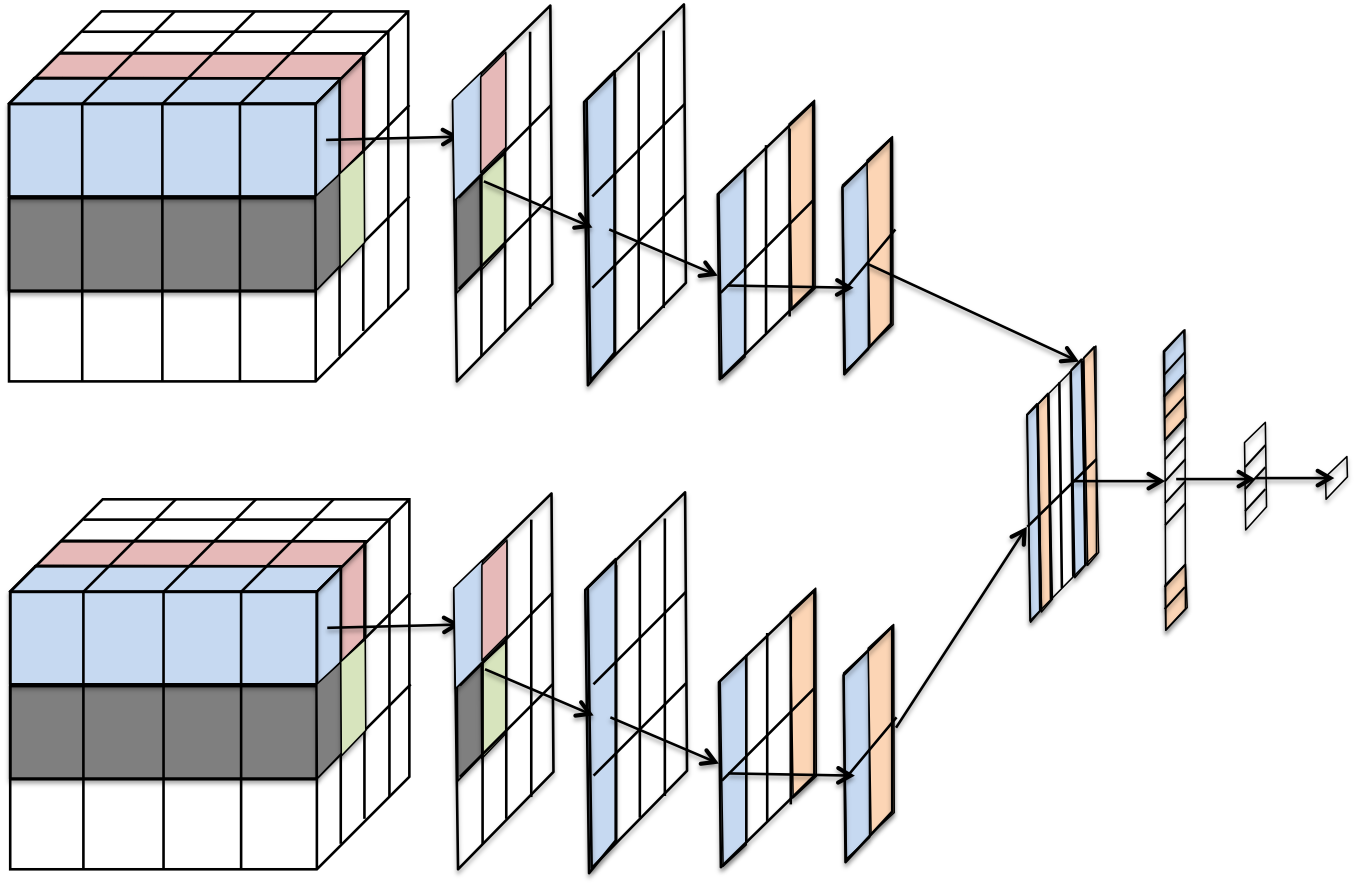
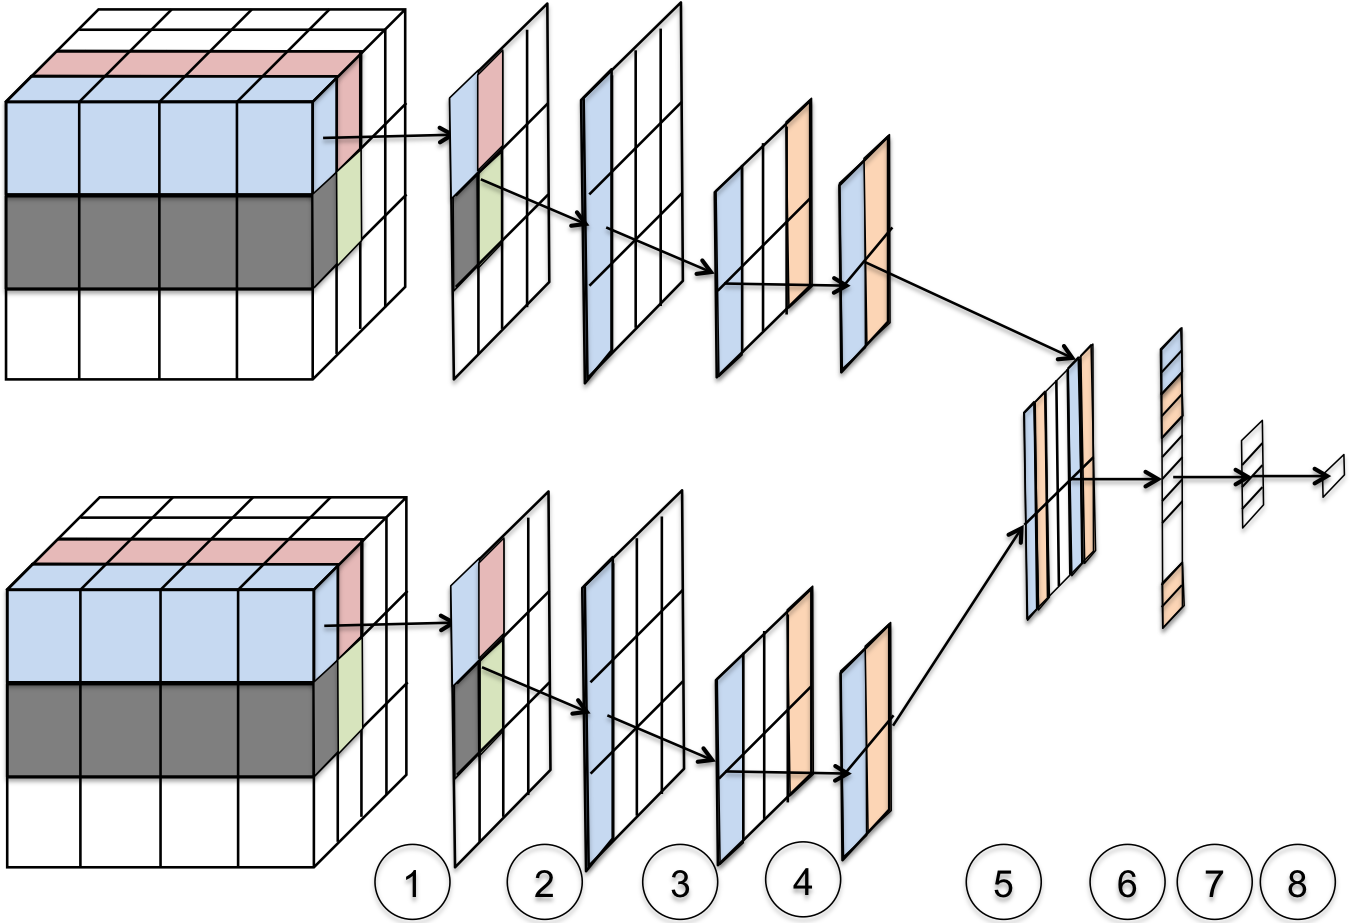
revising the text in introduction

diff --git a/Lineage.tex b/Lineage.tex
@@ -65,6 +65,14 @@
 \newcommand{\note}[1]{}
 \fi
 
+\newenvironment{shortlist}{
+        \vspace*{-0.5em}
+  \begin{itemize}
+  \setlength{\itemsep}{-0.1em}
+}{
+  \end{itemize}
+        \vspace*{-0.5em}
+}
 
 \begin{document}
 
@@ -92,14 +100,14 @@
 \maketitle
 
 \begin{abstract}
-Distributed machine learning (ML) systems are increasingly popular as practitioners and researchers 
+Distributed machine learning (ML) frameworkss are increasingly popular as practitioners and researchers 
 can quickly build productive applications (ML pipelines) and execute them at scale. 
 However, debugging such a pipeline is often cumbersome due to the lack of system support for
 intermediate states recording and user interaction.
 In this paper, we explore the debuggability issue of distributed ML systems by leveraging the fine-grained 
 data lineage throughout ML pipelines. 
 Specifically, we formulate the fine-grained data lineage as mappings between multi-dimensional spaces,
-identify a suite of primitive lineage types based on its dataflow and cross-space mapping patterns, 
+identify a suite of primitive lineage types based on its mapping patterns, 
 and investigate several recording and indexing strategies to reduce the storage consumption and improve the query performance.
 
 We present the Gineala lineage system as part of the KeystoneML, which is a distributed machine learning
@@ -119,7 +127,7 @@ use case.
 %\keywords{ACM proceedings, \LaTeX, text tagging}
 
 \section{Introduction}
-Machine learning systems are increasingly popular as practitioners and researchers can quickly
+Machine learning frameworks are increasingly popular as practitioners and researchers can quickly
 build productive applications (referred as ML pipelines in the rest of this paper) with a high-level 
 programming language to pipeline the data preparation, feature extraction, model training, 
 and prediction. 
@@ -130,26 +138,26 @@ SystemML~\cite{ghoting11systemml}, and KeystoneML~\cite{sparks15} focus on a dis
 Debugging such a ML pipeline with datasets in a distributed environment can be problematic due to
 the lack of system support of memory states capturing and user interaction.
 To motivate, we present three typical use cases for ML pipeline debugging:
-\begin{itemize}
+\begin{shortlist}
 \item{\bf Data Debugging}: In a hand-written digit classification pipeline, a user wants to remove one
-corrupted training data point and retrain the model.
+corrupted training data item and retrain the model.
 \item{\bf Code Debugging}: In an image classification pipeline, a user wants to verify the correctness of 
 the positional information of features. 
 \item{\bf Results Debugging}: In an astroid extraction pipeline, an astronomer wants to find astroids whose
 brightness are above a threshold then locate them in the input images.
-\end{itemize}
+\end{shortlist}
 
 In practice, users instrument the steps of interest to gather memory states and store them in a persistent storage
 for later examination. Users may try multiple solutions until the memory states have sufficient information for the
-use cases. These solutions are often use case specific, performance degradation prone, and can introduce high code
-complexity due to the demand for multiple versions of an ML pipeline.
+use cases. These solutions are often use case specific, performance degradation prone, and can complicate code
+management due to the demand for multiple versions of a pipeline.
 
 On the other hand, fine-grained data lineage at data structure cell-level (e.g. elements of a matrix) -- the mapping between
 input elements to output elements and according computation -- can provide useful information for the
 debugging purpose~\cite{widom04}. The user of the {\bf Data Debugging} case can trace the propagation of the corrupted training
-data point from the beginning step forward until the step before model training to figure out the affected features.
+data item from the beginning step forward until the step before model training to figure out the affected features.
 Then the user traces the affected features backward and confirms these affected features only depend on the corrupted
-data point. At this point, the users can remove the affected features directly from the input of the model training step, 
+data item. At this point, the users can remove the affected features directly from the input of the model training step, 
 and rerun the training process with the cleaned dataset. The user of the {\bf Code Debugging} case can trace the lineage
 information of the feature extraction step backward to figure out the correlated input pixels in the image. Visualizing
 these pixels can help the user confirm the correctness of feature extraction immediately. The astronomer of the {\bf Results Debugging}
@@ -157,88 +165,87 @@ case can first filter the results and find these astroids that are above the bri
 backward to find out the input pixels. With further mathematical analysis or visualization, the astronomer can tell
 if it is a new astroid or an false detection introduced by cosmic ray. 
 
-In this paper, we explore the debuggability of distributed machine learning systems by leveraging the fine-grained data lineage.
-We formulate the data transformation in the ML pipeline as a multi-dimensional space transformation. 
-As shown in Figure~\ref{fig:conceptual}, the mapping of an ML pipeline can be viewed as a sequence of multi-dimentional space transformations. 
+
+We seek to enable the debuggability of distributed machine learning frameworks by leveraging the fine-grained data lineage.
+However, building such a lineage system is challenging because: 
+the interface of the lineage system needs to be concise;
+capturing fine-grained data lineage introduces performance penalty;
+lineage querying needs to be responsive.
+
+For a concise lineage system interface, we identify seven primitive lineage types by formulating the cell-level mapping 
+of an ML pipeline as a sequence of multi-dimensional space transformation, as shown in Figure~\ref{fig:conceptual}.
 Higher-dimensional space can collapse/expand to lower-dimentional space along one dimension at a time, 
-resulting in collapse mapping and expansion mapping. 
-The mapping between spaces with the same dimensions can be one-to-one mapping, all-to-one mapping, 
-region mapping, sample mapping, and linear-combination mapping.
-Thus, we define seven lineage primitive types based on the cell-level mapping. 
+resulting in collapse mapping(\textcircled{1}) and expansion mapping(\textcircled{5}, \textcircled{6}). 
+The mapping between spaces with the same number of dimensions can be identity mapping, all mapping(\textcircled{8}), 
+geometry mapping(\textcircled{2}, \textcircled{4}), and linear-combination mapping(\textcircled{3}, \textcircled{7}).
+A formal definition of the mapping types is in \S\ref{sec:Lin}.
 Users can declare the according lineage type for individual data transformations.
-Specifically for region mapping, we introduce an high-order function approach to describe the geometry for
-less storage consumption and investigate various indexing strategies of the geometry mapping for higher query performance.
-
-%We present the Gineala lineage system, which is built upon the KeystoneML distributed machine learning system. 
-
-%Recording fine grained lineage information for modern distributed computing frameworks can help
-%users and practitioners understand the data analysis results, find data anomalies from massive
-%datasets, and replay the computation with cleaned data. 
-%Users can look into the lineage for a highly rated movie to understand the nature of the supporting
-%group. They can also investigate how an erroneous data item propagates in the analysis and replay
-%the computation by removing the polluted data at a stage that incurs the least re-execution cost.
-%In general, a lineage system needs to be able to collect the fine grained lineage, 
-%provide forward and backward query along the computation stages, and replay partial computation
-%that are of users' interest.
-
-%Building such a lineage system is particularly challenging because: 
-%1) lineage collection can slowdown the analysis dramatically;
-%2) lineage data can be hard to capture due to intermediate data's lack of structure;
-%3) lineage data can exceed the disk storage space; 
-%4) interaction between users and the lineage system needs to be responsive.
-
-%Specifically for a distributed machine learning system, some challenges can exacerbate: 
-%The slowdown introduced by recording lineage to disks can be significant as the computing engine 
-%may run applications completely in memory without writing/reading intermediate data to/from disks. 
-%The dataset processed by a distributed machine learning system is usually larger that runs on a desktop.
-%On the other hand, dedicated distributed machine learning systems have the intermediate data between
-%stages well structured as vectors, matrices, and images (2D images with channels). 
-%This allows us to separate the metadata of the coordination system in each data structure from the actual data. 
-%Recording the mapping between metadata and storing them consumes less storage space than that of actual data.
-%Building index for the metadata mapping can reduce the query response time while paying the cost of time.
 
 \begin{figure}[h]
 \begin{center}
     \includegraphics[width=85mm]{pictures/Conceptual}
-    \caption {A synthetic image processing pipeline with elements mapping highlighted in color scheme.
+    \caption {A synthetic image classfication pipeline with elements mapping highlighted in color scheme. 
+    \textcircled{1}: converts multi-channel image to gray scale.
+    \textcircled{2}: SIFT Feature extraction.
+    \textcircled{3}: PCA reduces vector demension.
+    \textcircled{4}: Vector sampling.
+    \textcircled{5}: Vector combining.
+    \textcircled{6}: Matrix vectorizing.
+    \textcircled{7}: Lineage model prediction.
+    \textcircled{8}: Selection of the index with maximum value.
     \label{fig:conceptual}
 }
 \end{center}
 \end{figure}
 
-%In this paper, we investigate the above tradeoffs in the context of the KeystoneML machine learning pipeline that is built on
-%top of Apache Spark~\cite{zaharia12}. In particular, we study 1) various data storage options given a space or a query latency constraint, 
-%2) a set of indexing algorithms with different memory consumption, disk space, building overhead, and query latency.
-%Based on these studies, we present the Gineala lineage system as a module of KeytoneML. 
-%Gineala abstracts lineage as input dataset, output dataset, metadata mapping, computation, and random factor. 
-%Gineala lets users declare lineage in five pre-defined categories: {\bf One}, {\bf All}, {\bf Region}, {\bf LinCom} (Lineage Combination), and {\bf Gather}.
-%It separates the metadata (coordination system of the data structure) from the actual data, and records the metadata mapping. 
-%It incorporates metadata type checking for inter-stage lineage query and builds index for {\bf Region} lineage for responsive query.
-%Gineala stores lineage information in HDFS~\cite{shvachko10} as Apache Spark's resilient distributed dataset(RDD). 
-%It can load the lineage information into KeystoneML in-memory, modify or remove data item from the input dataset, and replay
-%the computation interactively.
+The performance penalty introduced by lineage capturing comes mostly from persisting in-memory data to storage.
+In the context of data transformation, there are three potential datasets: the input, the output, and mapping between them.
+Recording only the metadata (coordinates) mapping rather than the actual data value places a lower bound of the amount
+of data the lineage system needs to capture. The actual dataset can be derived by rerunning the pipeline.
+Among the mapping types, geometry mapping takes more storage space than others due to the arbitrary between two collections
+of metadata. We introduce an high-order function approach to describe each geometry and record the mapping between
+each pair of geometries to reduce the storage consumption. We also investigate various indexing strategies for better
+query performance for geometry mapping.
 
-%The contributions of this paper are: 
-%1) the use of higher-order function to describe {\bf Region} lineage;
-%2) the indexing algorithm that speeds up the query by 45x-168x;
-%3) the open source implementation of the Gineala system.
+We present the Gineala, a lineage collecting and serving system that implements the above general solutions.
+Ginealal is integrated with the KeystoneML~\cite{sparks15} distributed machine learning framework.
+KeystoneML exposes two building blocks: transformers and estimators. 
+A transformer applies a deterministic unary function to data items and produce new data items.
+An estimator takes a collection of data items, and feed them to a training procedure,  and produces a transformer.
+Gineala interacts with KeystoneML in the transformers, where the users can declare the lineage type and instrumentation.
+Gineala collects five types of data for each transformer: the input dataset, the output dataset, the mapping between them
+along with the computation and the optional model.
+Gineala stores the lineage information on HDFS~\cite{shvachko10} via the resilient distributed dataset (RDD) abstraction
+of Apache Spark~\cite{zaharia12}, the underlying computing engine of KeystoneML.
+Upon query, Gineala can load the lineage information from storage and reconstruct the lineage chain.
+Users have the flexibility to specify either to reconstruct a single transformer lineage, a partial chain, or the whole chain.
 
-%We use three real machine learning pipelines to show Gineala's functionalities and performance. 
-%RandomFFTMNIST is a pipeline for hand-written digit recognition. 
-%VOCSIFTFisher is an image classification pipeline.
-%SourceExtractor is an astronomical image processing pipeline that detects objects in images produced by astronomy telescopes.
-%Our results show that by using the higher-order function for {\bf Region} lineage can reduce the the storage space by xxx. 
-%Indexing strategies with RTree and KMeans algorithms can speedup the query response time by a factor of xxx with overhead of xxx, respectively.
-%The overall slowdown for the three real pipelines are xxx, with xxx more memory and disk consupmtion.
+By examining the KeystoneML code base, we see that Gineala's lineage interface covers x\% of the existing transformers.
+Combining the high-order function approach and spatial indexing strategies, 
+the geometry lineage query runs 2x-31x faster and storage consumption is reduced from $O(kN^2)$
+to $O(k)$, assuming k is the number of mappings, N is the number of input and output elements in each geometry. 
+Our measurements with the three representative ML pipelines show that Gineala lineage capturing scales no worse than the
+ML pipelines.
+The performance penalty for the three fore-mentioned use cases ranges from 16\% to 41\%.
+The query for these use cases takes from 0.1~s to 1.8~s.
 
-The rest of the paper is organized as following: 
-\S\ref{sec:Background} introduces the background of KeystoneML and typical uses of fine-grained lineage systems. 
-\S\ref{sec:Lin} discusses lineage of a machine learning pipeline formally.
-\S\ref{sec:Design} discusses the general design of Gineala.
-\S\ref{sec:Impl} documents the Gineala implementation on KeystoneML with technical details
-We present the performance measurements in \S\ref{sec:Perf}.
-\S\ref{sec:Related} surveys existing lineage systems.
-We conclude and envision future work in \S\ref{sec:Conclusion}.
+In summary, we make the following contributions in this work:
+\begin{shortlist}
+\item{} We present a concise and powerful lineage system interface by formulating the cell-wise mapping in ML pipelines as multi-dimensional space transformation.
+\item{} We present a high-order function to describe the geometry to reduce storage overhead.
+\item{} We present and evaluate various spatial indexing strategy to improve the query performance.
+\item{} We present the lower and upper bound of the amount of data that needs to be collected to enable complete pipeline lineage.
+\item{} We present three real use case of using fine-grained data lineage for data, code, and results debugging.
+\end{shortlist}
+
+%The rest of the paper is organized as following: 
+%\S\ref{sec:Background} introduces the background of KeystoneML and typical uses of fine-grained lineage systems. 
+%\S\ref{sec:Lin} discusses lineage of a machine learning pipeline formally.
+%\S\ref{sec:Design} discusses the general design of Gineala.
+%\S\ref{sec:Impl} documents the Gineala implementation on KeystoneML with technical details
+%We present the performance measurements in \S\ref{sec:Perf}.
+%\S\ref{sec:Related} surveys existing lineage systems.
+%We conclude and envision future work in \S\ref{sec:Conclusion}.
 
 \section{Background}
 \label{sec:Background}
